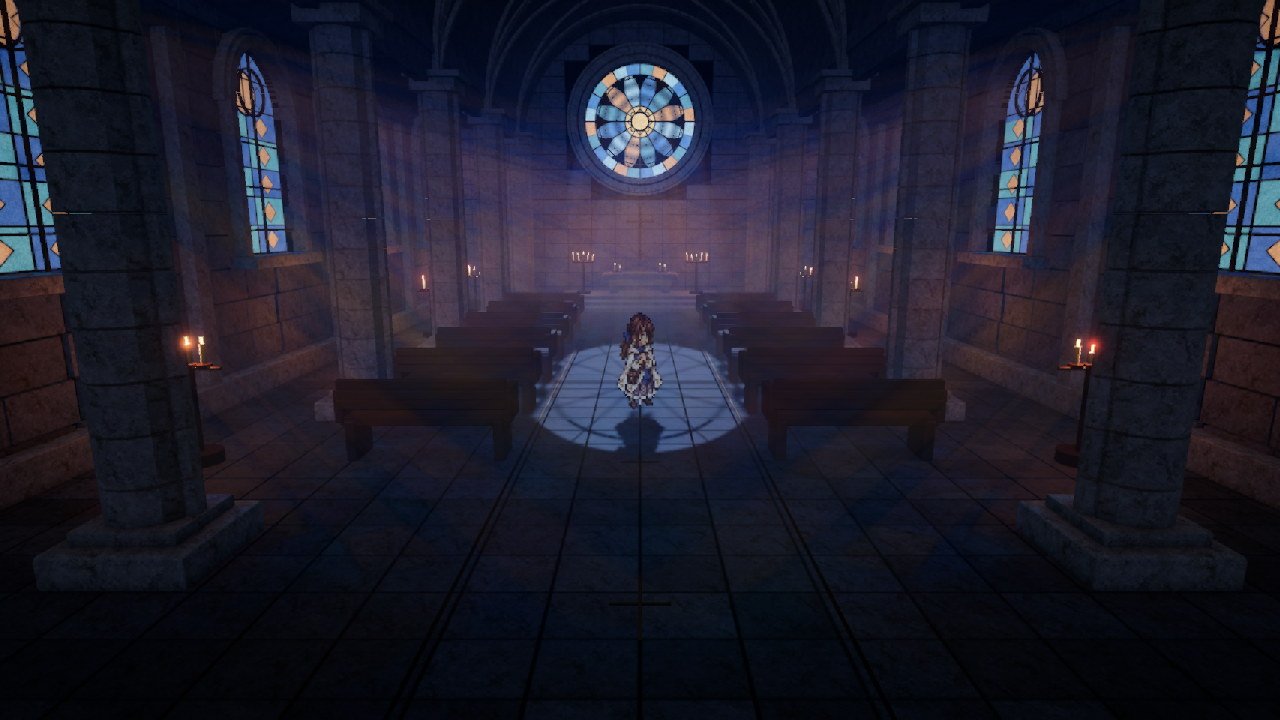
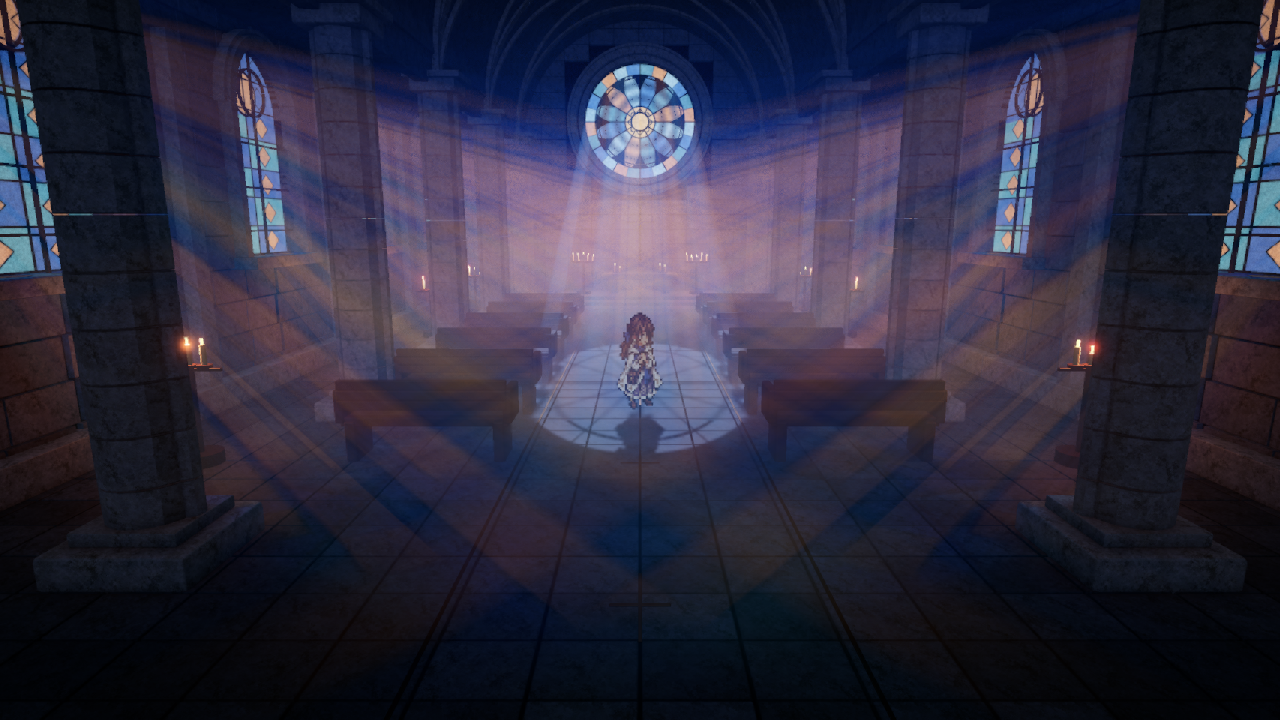
Add live volumetric lighting controls and sharper beam edges

diff --git a/Assets/MVP04/Editor/MVP04LightingWindow.cs b/Assets/MVP04/Editor/MVP04LightingWindow.cs
@@ -1,0 +1,148 @@
+using System.Collections.Generic;
+using UnityEditor;
+using UnityEditor.UIElements;
+using UnityEngine;
+using UnityEngine.UIElements;
+
+public sealed class MVP04LightingWindow : EditorWindow
+{
+    private const string MaterialPath="Assets/MVP04/Materials/RoseWindowVolume.mat";
+    private Material volume;
+    private readonly List<System.Action> refreshers=new List<System.Action>();
+    private IVisualElementScheduledItem pendingSave;
+    private Label saveStatus;
+    private bool needsSave;
+
+    [MenuItem("MVP04/体积光设置")]
+    public static void Open()
+    {
+        var window=GetWindow<MVP04LightingWindow>();
+        window.titleContent=new GUIContent("体积光设置");
+        window.minSize=new Vector2(420,560);window.Show();
+    }
+
+    public void CreateGUI()
+    {
+        rootVisualElement.Clear();refreshers.Clear();
+        volume=AssetDatabase.LoadAssetAtPath<Material>(MaterialPath);
+        rootVisualElement.style.backgroundColor=new Color(.13f,.14f,.16f);
+        var scroll=new ScrollView();rootVisualElement.Add(scroll);
+        scroll.style.paddingLeft=18;scroll.style.paddingRight=18;
+        scroll.style.paddingTop=18;scroll.style.paddingBottom=18;
+        var title=new Label("MVP04 · 体积光");title.style.fontSize=22;
+        title.style.unityFontStyleAndWeight=FontStyle.Bold;scroll.Add(title);
+        var subtitle=new Label("边缘更清楚，亮度单独调整");
+        subtitle.style.color=new Color(.65f,.72f,.8f);subtitle.style.marginTop=4;scroll.Add(subtitle);
+        if(volume==null)
+        {
+            scroll.Add(new HelpBox("未找到 MVP04 的体积光材质，请先构建教堂场景。",HelpBoxMessageType.Warning));return;
+        }
+        if(UnityEngine.SceneManagement.SceneManager.GetActiveScene().path!="Assets/MVP04/Scenes/MVP04_NocturneChapel.unity")
+            scroll.Add(new HelpBox("当前未打开 MVP04 场景。调整仍会保存到 MVP04 的体积光材质。",HelpBoxMessageType.Info));
+
+        var edge=Section(scroll,"边缘与分束");
+        var presets=new VisualElement();presets.style.flexDirection=FlexDirection.Row;edge.Add(presets);
+        string[] names={"柔和","清晰","锐利"};
+        for(int i=0;i<names.Length;i++)
+        {
+            int preset=i;
+            var button=new Button(()=>
+            {
+                Undo.RecordObject(volume,"体积光预设："+names[preset]);
+                SetEdgePreset(volume,preset);Changed();RefreshControls();
+            }){text=names[i],name="preset-"+i,tooltip="只调整边缘、扩散、分束与阴影，保留当前亮度。"};
+            button.style.flexGrow=1;button.style.height=30;presets.Add(button);
+        }
+        AddSlider(edge,"边缘锐利度","beam-edge","_BeamEdge",0,100,
+            "越大越锐利，同时作用于圆窗与侧窗光束。",
+            value=>Mathf.InverseLerp(Mathf.Log(.12f),Mathf.Log(.003f),Mathf.Log(Mathf.Max(value,.003f)))*100,
+            value=>Mathf.Exp(Mathf.Lerp(Mathf.Log(.12f),Mathf.Log(.003f),value/100)));
+        AddSlider(edge,"窗格分束对比","beam-contrast","_BeamContrast",1,3,"越大，暗窗棂与明亮光束之间的分界越明显。");
+        AddSlider(edge,"阴影锐利度","beam-shadow","_ShadowSharpness",0,1,"收紧石柱和窗棂在光束中的阴影边缘。");
+        AddSlider(edge,"圆窗光束扩散","beam-spread","_BeamSpread",0,.03f,"越小，圆窗光束沿传播方向越集中。侧窗方向由其灯光位置决定。");
+
+        var light=Section(scroll,"亮度与空气");
+        AddSlider(light,"光束亮度","beam-intensity","_BeamIntensity",0,2,"同时调整圆窗与侧窗的体积光亮度，不改变场景灯光强度。");
+        AddSlider(light,"圆窗雾中散射","rose-density","_Density",0,.2f,"圆窗光束在空气中的浓度。");
+        AddSlider(light,"侧窗雾中散射","side-density","_SideDensity",0,.2f,"全部侧窗光束在空气中的浓度。");
+        AddSlider(light,"尘雾纹理频率","dust-scale","_NoiseScale",.1f,2,"越大，光束中明暗变化的颗粒越细。");
+
+        var footer=Section(scroll,"实时预览与保存");
+        var help=new Label("拖动滑块即可在 Game / Scene 窗口预览。\n修改自动保存，支持 Ctrl+Z 撤销。运行中调整也会保留。");
+        help.style.whiteSpace=WhiteSpace.Normal;help.style.marginBottom=10;footer.Add(help);
+        var actions=new VisualElement();actions.style.flexDirection=FlexDirection.Row;footer.Add(actions);
+        var save=new Button(SaveSettings){text="立即保存",name="save-settings"};save.style.flexGrow=1;actions.Add(save);
+        var inspect=new Button(()=>{Selection.activeObject=volume;EditorGUIUtility.PingObject(volume);}){text="在 Inspector 中查看"};
+        inspect.style.flexGrow=1;actions.Add(inspect);
+        saveStatus=new Label("设置已载入");saveStatus.style.marginTop=8;
+        saveStatus.style.color=new Color(.65f,.78f,.67f);footer.Add(saveStatus);
+        RefreshControls();
+    }
+
+    private VisualElement Section(VisualElement parent,string heading)
+    {
+        var section=new VisualElement();section.style.marginTop=16;
+        section.style.paddingLeft=12;section.style.paddingRight=12;section.style.paddingTop=12;section.style.paddingBottom=12;
+        section.style.backgroundColor=new Color(.19f,.2f,.23f);
+        section.style.borderTopLeftRadius=6;section.style.borderTopRightRadius=6;
+        section.style.borderBottomLeftRadius=6;section.style.borderBottomRightRadius=6;
+        var label=new Label(heading);label.style.unityFontStyleAndWeight=FontStyle.Bold;
+        label.style.marginBottom=10;section.Add(label);parent.Add(section);return section;
+    }
+
+    private void AddSlider(VisualElement parent,string label,string name,string property,float low,float high,string tooltip,
+        System.Func<float,float> toDisplay=null,System.Func<float,float> fromDisplay=null)
+    {
+        var slider=new Slider(label,low,high){name=name,showInputField=true,tooltip=tooltip};
+        slider.style.marginTop=9;slider.labelElement.style.minWidth=130;parent.Add(slider);
+        refreshers.Add(()=>slider.SetValueWithoutNotify(toDisplay==null?volume.GetFloat(property):toDisplay(volume.GetFloat(property))));
+        slider.RegisterValueChangedCallback(evt=>
+        {
+            Undo.RecordObject(volume,"调整体积光："+label);
+            float value=Mathf.Clamp(evt.newValue,low,high);
+            volume.SetFloat(property,fromDisplay==null?value:fromDisplay(value));Changed();
+        });
+    }
+
+    private void Changed()
+    {
+        EditorUtility.SetDirty(volume);needsSave=true;
+        if(saveStatus!=null)saveStatus.text="预览已更新 · 正在自动保存…";
+        pendingSave?.Pause();pendingSave=rootVisualElement.schedule.Execute(SaveSettings).StartingIn(400);
+        SceneView.RepaintAll();EditorApplication.QueuePlayerLoopUpdate();UnityEditorInternal.InternalEditorUtility.RepaintAllViews();
+    }
+
+    public void SaveSettings()
+    {
+        pendingSave?.Pause();pendingSave=null;
+        if(volume!=null && needsSave){AssetDatabase.SaveAssetIfDirty(volume);needsSave=false;}
+        if(saveStatus!=null)saveStatus.text="已保存 · 停止运行后仍保留";
+    }
+
+    private void RefreshControls(){if(volume!=null)foreach(var refresh in refreshers)refresh();}
+    private void OnEnable(){Undo.undoRedoPerformed+=OnUndoRedo;}
+    private void OnDisable(){Undo.undoRedoPerformed-=OnUndoRedo;SaveSettings();}
+    private void OnFocus(){RefreshControls();}
+    private void OnUndoRedo(){if(volume!=null){RefreshControls();Changed();}}
+
+    // Shared with the scene builder so a rebuild matches the settings-window presets.
+    public static void SetEdgePreset(Material material,int preset)
+    {
+        Vector4 values=preset==0?new Vector4(.045f,.008f,1.25f,.45f):
+            preset==1?new Vector4(.018f,.002f,1.65f,.75f):new Vector4(.008f,.001f,2.05f,.9f);
+        material.SetFloat("_BeamEdge",values.x);material.SetFloat("_BeamSpread",values.y);
+        material.SetFloat("_BeamContrast",values.z);material.SetFloat("_ShadowSharpness",values.w);
+        EditorUtility.SetDirty(material);
+    }
+
+    [MenuItem("MVP04/Apply Sharper Beam Edges")]
+    public static void ApplySharperDefaults()
+    {
+        var material=AssetDatabase.LoadAssetAtPath<Material>(MaterialPath);
+        if(material==null)return;
+        Undo.RecordObject(material,"应用锐利体积光");SetEdgePreset(material,2);
+        // Older material assets acquire the shader's brightness default when this property is introduced.
+        AssetDatabase.SaveAssetIfDirty(material);
+        SceneView.RepaintAll();EditorApplication.QueuePlayerLoopUpdate();
+    }
+}

diff --git a/Assets/MVP04/Editor/MVP04Glass.cs b/Assets/MVP04/Editor/MVP04Glass.cs
@@ -21,9 +21,8 @@ public static partial class MVP04Builder
 
     private static void SharpenWindowBeams(Material volume)
     {
-        volume.SetFloat("_BeamEdge",.025f);volume.SetFloat("_BeamSpread",.003f);
-        volume.SetFloat("_BeamContrast",1.65f);volume.SetFloat("_ShadowSharpness",.7f);
-        EditorUtility.SetDirty(volume);
+        MVP04LightingWindow.SetEdgePreset(volume,2);
+        volume.SetFloat("_BeamIntensity",1);
     }
 
     [MenuItem("MVP04/Apply Frosted Glass and Sharper Beams")]

diff --git a/Assets/MVP04/README.md b/Assets/MVP04/README.md
@@ -6,6 +6,20 @@ The dark interior is arranged symmetrically along the nave: bundled stone column
 
 ## Rendering
 
+### Interactive lighting controls
+
+Open **MVP04 > 体积光设置** for a dedicated settings window. Sliders update the Game and Scene views immediately, save to the MVP04 volume material after a short debounce, and support Undo/Redo. Changes made during Play Mode are persistent material edits. The **柔和 / 清晰 / 锐利** presets change edge softness, rose-beam spread, transmission contrast and shadow definition without changing brightness or density. The **立即保存** button also saves pending edits.
+
+- **边缘锐利度:** larger values narrow the aperture transition for both the rose and side windows.
+- **窗格分束对比 / 阴影锐利度:** strengthen the gaps between shafts and tighten the shadow penumbra.
+- **圆窗光束扩散:** smaller values keep the rose beam narrow along its length.
+- **光束亮度:** scales the scattering from all windows, independently of surface lighting.
+- **圆窗 / 侧窗雾中散射:** adjust the amount of scattering in the air; **尘雾纹理频率** adjusts its noise detail.
+
+The builder's sharp preset uses edge softness **0.008**, rose spread **0.001**, transmission contrast **2.05**, and shadow sharpness **0.9**. `Previews/MVP04_LightingSettings.png` shows the settings window. Its live values can differ from the builder defaults after editing.
+
+### Shading
+
 - **Window light:** `WindowVolumeFeature` runs one bounded 72-step world-space ray march before post processing for the rose and eight side windows. Scene depth limits integration to visible air. Main and additional-light shadow maps account for architectural occlusion. Narrower beam edges, reduced spreading, stronger transmission contrast and remapped shadow penumbrae make the shafts more defined. Four arched windows on each side have actual wall openings, carved stone surrounds and blue/teal/amber glass. Each `SideWindowLight` associates a shadow-casting spotlight with its aperture; glass transmission and drifting 3D noise colour the diagonal shafts. Camera-specific visible-light indices select the correct shadow map. The volume is tailored to this chapel's fixed window dimensions.
 - **Frosted glass:** `FrostedGlass.shader` shades both rose and side panes with PBR, rough micro-normals, mottled scattering and fine grain that fades below pixel resolution. A short texture blur softens transmitted colour while the opaque lead remains dark. This approximates light diffusing through ground glass; it does not trace exterior refraction. The original transmission masks remain available to the light beams and projected cookies.
 - **Side illumination:** matching RGB spotlight cookies project the glass pattern onto stone and furniture. MVP04 uses Forward+ to keep window lights, ambient bounce and candles active together. The shared stone PBR shader supports clustered lights and cookies, while retaining the MVP03 forward variant.
